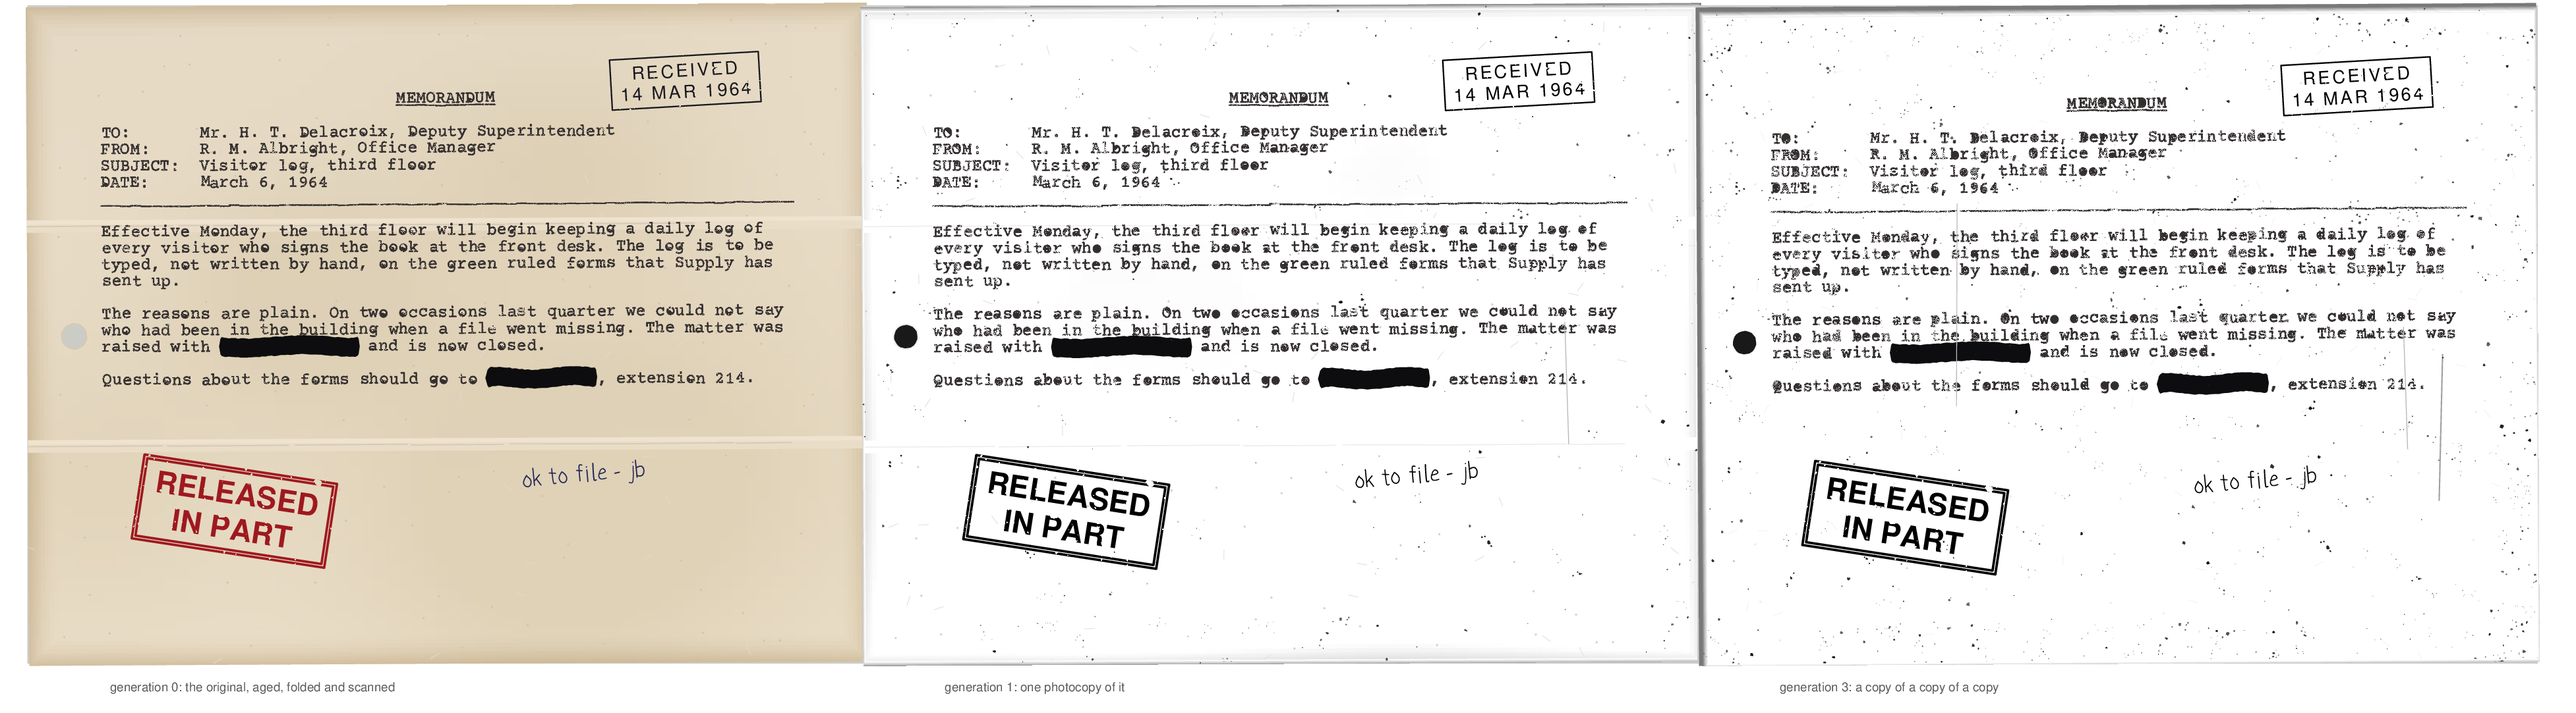
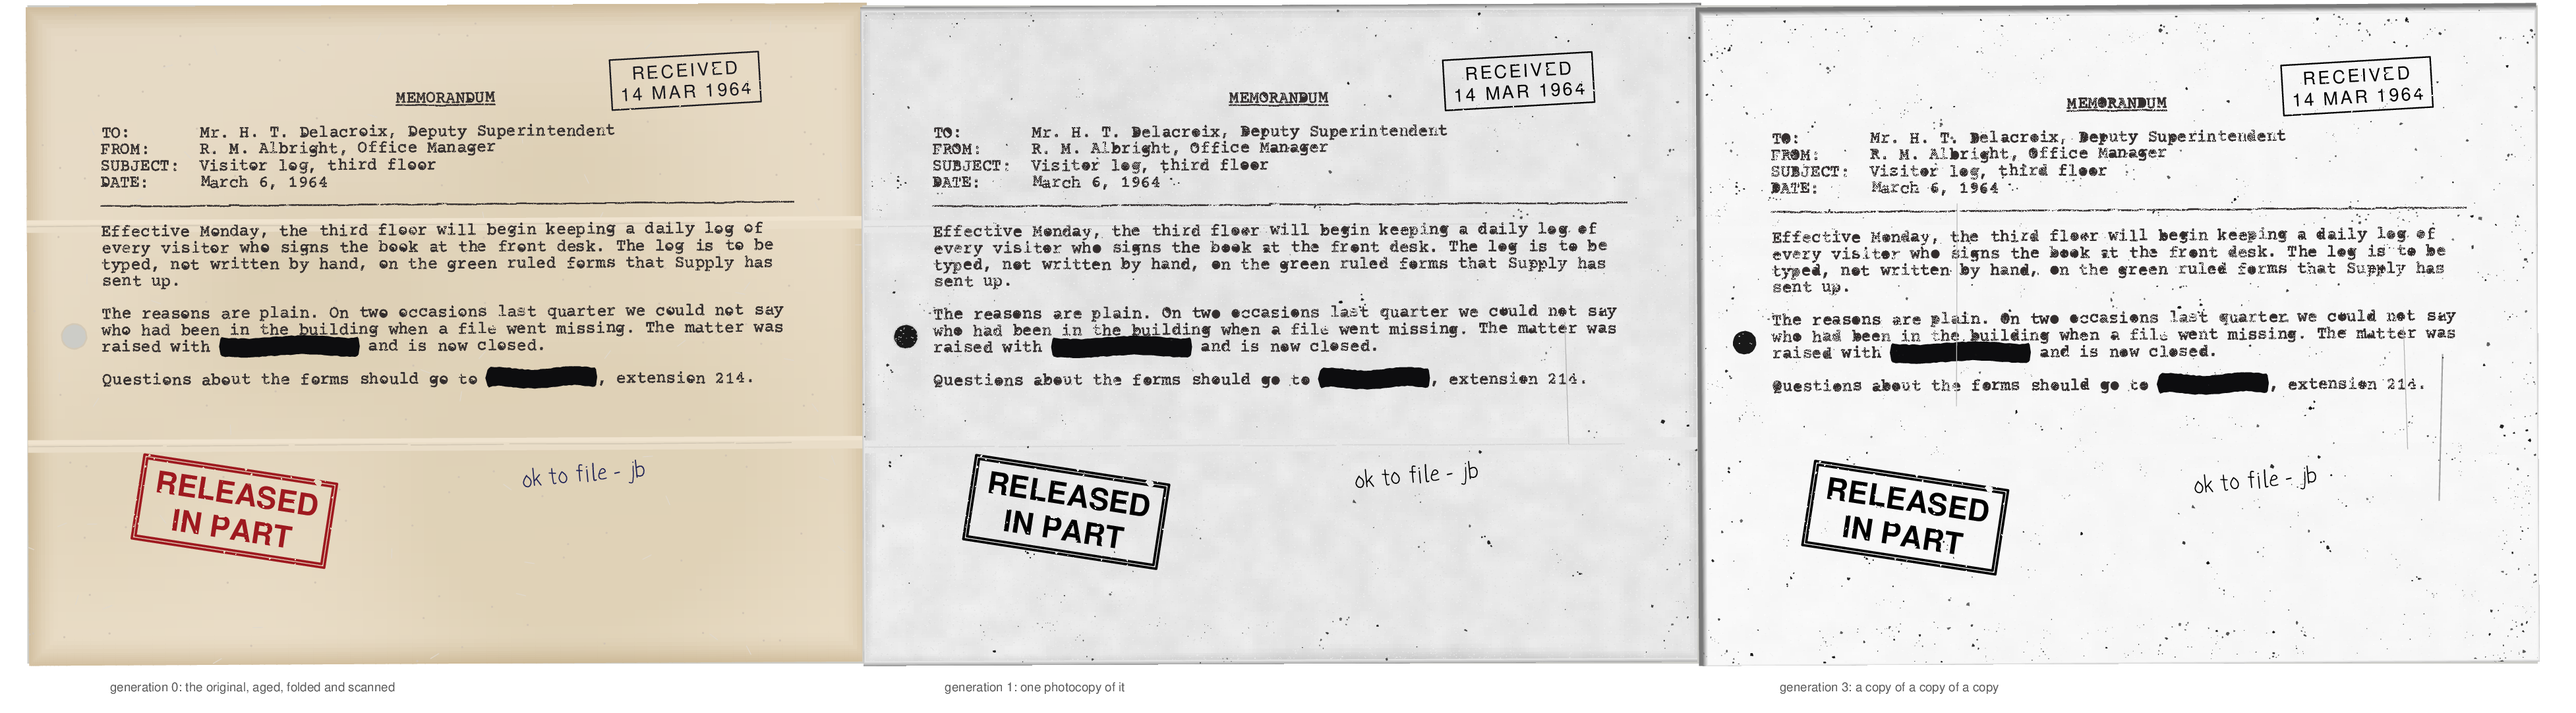
released: regenerate the specimen and the T14 board for /Haze; notes and docs (#466)
Claude-Session: https://claude.ai/code/session_01GTbCLDB6QC7UV1i7qukUEL

Changed region(s): [[0.3122, 0.0, 0.6556, 0.9446]]

diff --git a/docs/dev/design/typewriter/tools/release_compare.py b/docs/dev/design/typewriter/tools/release_compare.py
@@ -12,6 +12,8 @@ Panels (REFERENCES.md observation numbers):
   T15  a bitonal release copy: filled counters, dropped hairlines, specks
        (300 dpi)
   T9   aged paper under typing (Szilard 1945, about 240 dpi)
+  T14b the paper of a copy (issue #466): the white copy of before /Haze (the
+       specimen with /Haze 0), then the grey one, under T14's header
 
 Needs Pillow and a release pscat (default target/release/pscat). The scans are
 real released documents and are references only: the specimen's own stamps,
@@ -40,15 +42,25 @@ PANELS = [
      300, [(1, 360, 30, 252, 60), (1, 70, 222, 252, 60)]),
     ("T15_jfk_release_copy.jpg", "T15 a bitonal release copy. Below: generation 3",
      300, [(3, 54, 112, 261, 77)]),
+    ("T14_nsam55_marks.jpg", "T14 again, the paper of a copy. Below: generation 1 with /Haze 0 (the white copy before #466), then with the default /Haze",
+     300, [(1, 60, 84, 252, 62, "white"), (1, 60, 84, 252, 62)]),
     ("T10_szilard_zoom.jpg", "T10 Szilard (1945), aged paper, about 240 dpi. Below: generation 0",
      240, [(0, 54, 110, 338, 103)]),
 ]
 
 
-def render(pscat, tmp):
-    out = os.path.join(tmp, "spec.png")
-    subprocess.run([pscat, "--page", "1876x520", "--dpi", str(DPI), "--png", out,
-                    os.path.join(ROOT, "examples", "released_specimen.ps")],
+def render(pscat, tmp, white=False):
+    """The specimen at 300 dpi; white=True with every /Haze set to 0."""
+    out = os.path.join(tmp, "spec_white.png" if white else "spec.png")
+    src = os.path.join(ROOT, "examples", "released_specimen.ps")
+    if white:
+        text = open(src).read()
+        needle = "/Haze srg 3 ge { 0.2 } { 0.6 } ifelse"
+        assert needle in text, "examples/released_specimen.ps no longer sets /Haze as this tool expects"
+        text = text.replace(needle, "/Haze 0")
+        src = os.path.join(tmp, "spec_white.ps")
+        open(src, "w").write(text)
+    subprocess.run([pscat, "--headless", "--page", "1876x520", "--dpi", str(DPI), "--png", out, src],
                    check=True, cwd=ROOT, stdout=subprocess.DEVNULL)
     return Image.open(out).convert("RGB")
 
@@ -67,10 +79,11 @@ def main():
     font = ImageFont.load_default()
     with tempfile.TemporaryDirectory() as tmp:
         spec = render(pscat, tmp)
+        spec_white = render(pscat, tmp, True)
     rows = []
     for ref, caption, ref_dpi, crops in PANELS:
         ims = [Image.open(os.path.join(REFS, ref)).convert("RGB")]
-        ims += [crop(spec, *c, ref_dpi) for c in crops]
+        ims += [crop(spec_white if len(c) > 5 else spec, *c[:5], ref_dpi) for c in crops]
         rows.append((caption, ims))
     width = max(im.width for _, ims in rows for im in ims) + 20
     height = sum(14 + sum(im.height + 6 for im in ims) + 10 for _, ims in rows)

diff --git a/notes/466-copy-paper-haze.md b/notes/466-copy-paper-haze.md
@@ -1,0 +1,61 @@
+# #466: a photocopy's paper keeps a grey haze and a grain
+
+Follows #214 and #215 (read `notes/214-released-look.md` first). In #215's blind
+comparison the flat white of a `/Generation` copy was the easiest tell against
+the real scans (T2, T9 and T14 are grey and mottled).
+
+## What shipped
+
+- `rel-page /Haze` [0..1], default 0.6, in `lib/released.ps`. It applies only
+  when `/Generation` is above 0, so an original is untouched. `/Haze 0` is the
+  old white copy, byte for byte.
+- The haze is the copier curve's output times `1 - 0.16 Haze`, done in
+  `rlSet`/`rlCol` after `rlMono`, for everything drawn under the copy curve:
+  paper cells, folds, punch-hole rings, the other marks. Dark things (type,
+  stamp ink) barely change. The haze has to come after the curve: at
+  `/Generation 1` the curve sends any darkness under about 0.175 to pure white,
+  so a grey painted before it comes out white.
+- The paper field of the copied original is laid in 3pt cells (it was 9pt) with
+  a per-cell haze: nine Gaussian blotches plus two octaves of value noise
+  (14pt and 6pt lattices). A fine grain of tiny lighter and darker flecks goes
+  on after the paper, under the type, set directly (not through the curve).
+  Foxing grains and fibres are skipped on a hazed copy (they showed as pale dots).
+- The last sheet's base field and the edge shadow's inner colour carry the same
+  haze, so the lid fades into the grey, not white.
+- Everything uses `rlU` under `rlSeed 16` (the blobs) and `17` (the flecks), so
+  pscat and gs draw the same page and the existing seeded streams did not move.
+
+## Calibration (300 dpi, bright blocks without ink, 6px blocks and 48px blocks)
+
+| | mean | grain, 6px | mottle, 48px |
+|---|---|---|---|
+| T14 (a copy) | 0.907 | 0.009 | 0.011 |
+| T2 | 0.844 | 0.012 | 0.006 |
+| T9 | 0.856 | 0.009 | 0.005 |
+| copy sheet, plain (`/Generation 1`, no lamp, edge or folds) | 0.902 | 0.0028 | 0.0105 |
+| specimen gen 1 (with its `/Lamp 0.25 /EdgeDark 0.5 /Folds 0.5`) | 0.901 | 0.0035 | 0.024 |
+
+On a plain copy the tone and the mottle match T14 (0.902 against 0.907, 0.0105
+against 0.011); the 48px figure of the specimen is larger only because its lamp,
+edge darkening and folds are on (T2 and T9 are scans of single sheets, so they
+are less mottled). The fine grain is about a third of the real scans' at every
+setting: denser grain costs hundreds of thousands of fills (follow-up #474).
+T15 is bitonal and white, so the specimen's third sheet sets `/Haze 0.2`.
+
+## Renders that changed
+
+`scripts/identity_check.sh --loader lib/released.ps` (control: a driver that
+draws a hazed copy only if `/Haze` is a known key, which differs): exactly the
+two files that use a generation differ, `examples/released_specimen.ps` and
+`gallery/released_memo.ps`. With the default set to 0 temporarily (and the base's
+specimen) both are identical, so the change is gated by the key alone.
+Regenerated: `docs/dev/design/released_specimen.png` and `_gs.png`,
+`gallery/renders/released_memo.png`, and the boards that are made from them
+(`release_vs_real.png` with a new before/after panel against T14,
+`blind_grid.png`, `memo_vs_real.png`: the blind grid's order is the same fixed
+shuffle, and its key stays in the PR, not here).
+
+## Not done
+
+- Pixel-level grain at the real scans' strength, and the crumpled-paper wave of
+  T14's mottle (smooth blobs here): #474.

diff --git a/docs/guides/fonts.md b/docs/guides/fonts.md
@@ -178,7 +178,12 @@ inside a stack of effects, each optional and each off at strength 0:
 - **Photocopies**: `/Generation` 1 to 8. Each generation is a sheet the last
   one was copied onto, with its own small rotation and shift, black specks,
   streaks and a lid-dark sliver at the edge (`/Speckle`, `/CopyEdge`). A copy
-  is grey and contrasty: paper and stains go white. The content's type gets the
+  is grey and contrasty: paper and stains go white, but not to flat white:
+  `/Haze` (0 to 1, default 0.6) leaves the light grey of a real copy's toner
+  fog, with soft blotches and a fine grain, under the type (0.6 is about 0.90
+  against T14's 0.91; 1 is T2's 0.84; 0 is the old white copy; it needs
+  `/Generation` above 0, and a high generation that should read bitonal, like
+  T15, wants it low: the specimen's third sheet uses 0.2). The content's type gets the
   typewriter's `/Copies` key, which thickens strokes, closes counters and drops
   light strikes (`rel-page` sets it for you).
 - **Marks** over the content: `/Stamps` (`rel-stamp`: ink through a clip with

diff --git a/docs/dev/HANDOFF.md b/docs/dev/HANDOFF.md
@@ -754,8 +754,10 @@ renders eight examples in both and compares block-downsampled output).
    #215 shipped the gallery piece `gallery/released_memo.ps` (*Released in
    Part*) and the blind boards `docs/dev/design/typewriter/blind_grid.png` and
    `memo_vs_real.png` (`docs/dev/design/typewriter/tools/blind_compare.py`; the
-   key is in the PR, not the repo); `notes/215-released-memo.md`. Leftovers:
-   #466, #467, #468.
+   key is in the PR, not the repo); `notes/215-released-memo.md`. #466 gave a
+   copy's paper a grey haze, mottle and grain (`rel-page /Haze`, default 0.6,
+   applied after the copier curve in `rlSet`/`rlCol`; `/Haze 0` is the old white
+   copy; `notes/466-copy-paper-haze.md`). Leftovers: #467, #468.
    #242 shipped the charcoal gallery piece, `gallery/lincoln_charcoal.ps`
    (*Study after Berger, 1864*), and `lib/etching.ps`'s `et-tonemap`, which
    returns a photo as a grid of darkness for any piece that wants a

diff --git a/docs/dev/design/TYPEWRITER.md b/docs/dev/design/TYPEWRITER.md
@@ -342,6 +342,11 @@ No new page-scale CI test is added. #204's concern about CI time stands.
   (`rel-page`, `rel-paper`, `rel-stamp`, `rel-note`, `rel-redact`), the
   typewriter's `/Copies` key (copy loss in the ink: more spread, filled
   counters, a contrast curve on coverage) and `<r>..</r>` / `/Redactor`.
+  **As built (#466)** (`notes/466-copy-paper-haze.md`): a copy's paper is no
+  longer flat white. `rel-page /Haze` (default 0.6, 0 is the old white copy)
+  multiplies everything drawn under the copy curve by a light grey
+  (about 0.90, T14's tone), varying by place (soft blotches and value noise in
+  3pt cells) with a fine fleck grain, all opaque and under the type.
 - **#215, specimen.** A side-by-side against T1/T2 and T9/T10 crops at scan
   resolution. The user judges it.
 
